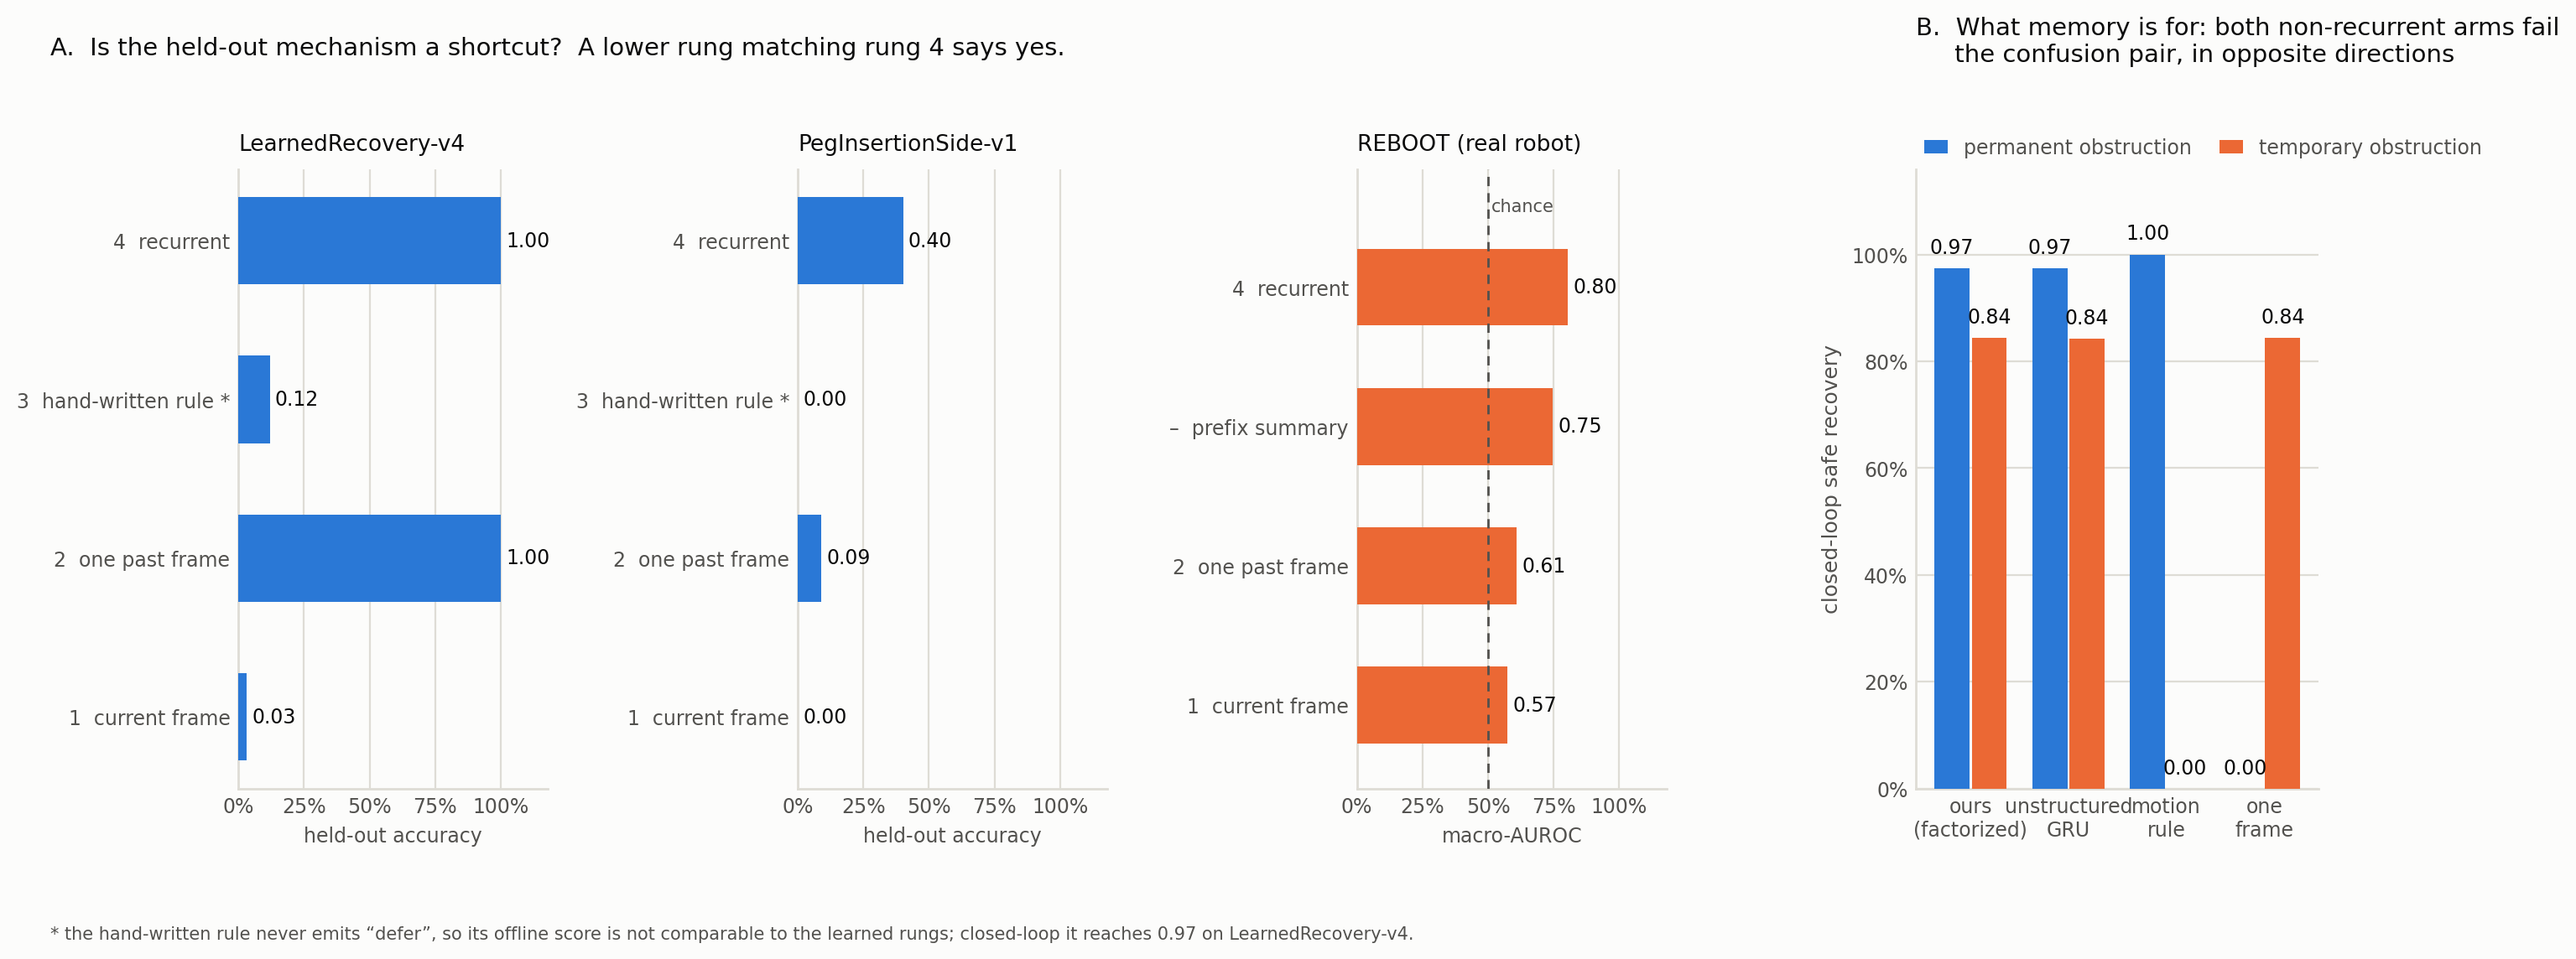
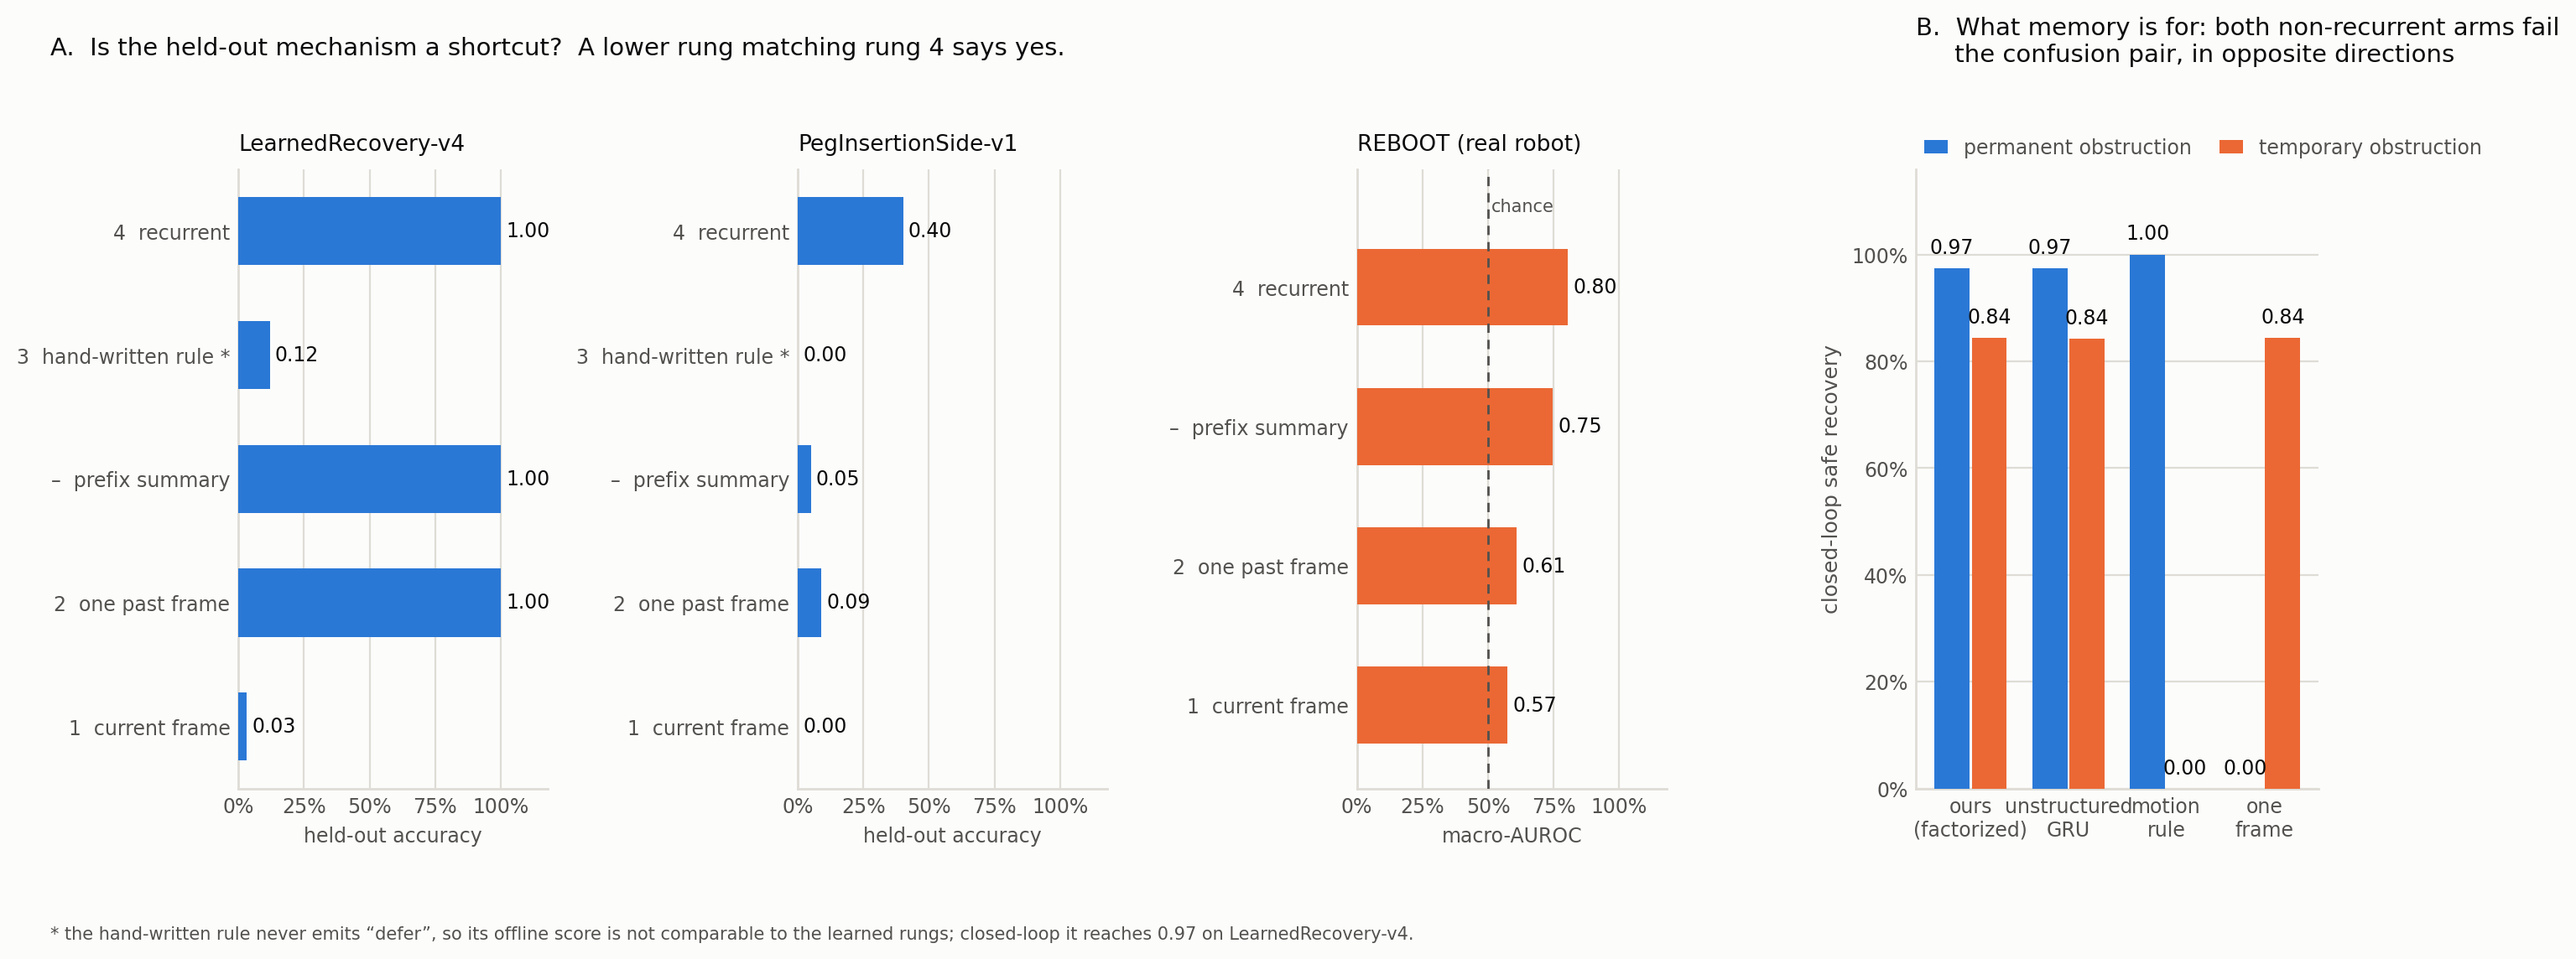
Score every benchmark against a matched rung set, revising two verdicts
The ladder had been scored with rungs that differed per benchmark: REBOOT
included an order-free summary control because its pipeline already provided
one, while the two simulated benchmarks did not. That omission changed
conclusions, so the earlier cross-benchmark summary was not sound.

With MomentSummaryRouter supplying the matched control on all three:

  LearnedRecovery-v4   best lower 1.0000 / 1.0000 = 1.000  shortcut
  PegInsertionSide-v1  best lower 0.0909 / 0.4015 = 0.226  none
  REBOOT               best lower 0.7466 / 0.8045 = 0.928  shortcut, marginal

REBOOT was previously reported as a clean negative on its endpoint-pair control
at 0.6080. Its order-free summary reaches 0.928 of the recurrent score, above
the 0.9 reporting line, so it is a marginal positive. The "one positive, two
negatives" summary is replaced by two positives and one negative.

The LearnedRecovery-v4 verdict is strengthened: two independent non-recurrent
controls both reach 1.0000, so the shortcut does not depend on how one control
was built. PegInsertion becomes more decisive as the negative, its order-free
summary reaching 0.0503, weaker than its two-frame control.

Three limitations are recorded and unresolved: the 0.9 line is a reporting
convention rather than a test, REBOOT sits close to it, and every REBOOT figure
rests on three optimizer seeds whose unstructured-GRU spread exceeds several of
the differences discussed.

diff --git a/README.md b/README.md
@@ -37,36 +37,46 @@ baseline.
 
 ## Results
 
-Applied to three benchmarks with a matched rung set:
+Applied to three benchmarks with an identical rung set:
 
-| Benchmark | Rung 2 | Rung 2b | Rung 4 | Shortcut |
-|---|---:|---:|---:|:---:|
-| `LearnedRecovery-v4` (this work) | 1.0000 | pending | 1.0000 | yes |
-| `PegInsertionSide-v1` | 0.0909 | pending | 0.4015 | pending |
-| REBOOT (external, real robot) | 0.6080 | 0.7466 | 0.8045 | contested |
+| Benchmark | r1 | r2 | r2b | r3 | r4 | best lower / r4 | Verdict |
+|---|---:|---:|---:|---:|---:|---:|:---:|
+| `LearnedRecovery-v4` (this work) | 0.0322 | 1.0000 | 1.0000 | 0.1195 | 1.0000 | 1.000 | shortcut |
+| `PegInsertionSide-v1` | 0.0000 | 0.0909 | 0.0503 | 0.0000 | 0.4015 | 0.226 | none |
+| REBOOT (external, real robot) | 0.5740 | 0.6080 | 0.7466 | n/a | 0.8045 | 0.928 | shortcut |
 
-Rung 2b is an order-free control that reads the whole prefix as a mean and
-standard deviation. It matters because a verdict computed against a weak
-non-recurrent control is not robust. On REBOOT the endpoint-pair control
-reaches 0.6080, which reports no shortcut, but the order-free summary reaches
-0.7466 — 0.928 of the recurrent score, above the 0.9 threshold the audit uses.
-REBOOT is therefore recorded as contested rather than as a clean negative, and
-the matched control is being trained for the other two benchmarks so all three
-are scored identically.
+Rung 2b is an order-free control: it reads every frame but has no sequence
+encoder and no access to frame order, taking the mean and standard deviation
+over the prefix. Including it changes two of the three verdicts relative to a
+ladder scored only against single- and two-frame controls, which is why the
+rung set must be identical across benchmarks.
+
+Two of the three benchmarks, including real-robot trajectories collected
+independently, have held-out mechanisms identifiable without the capability
+under test. `PegInsertionSide-v1` is the discriminating negative: its strongest
+non-recurrent control reaches 0.226 of the recurrent score, and its order-free
+summary is weaker still than its two-frame control.
+
+The threshold is a reporting convention rather than a test. REBOOT sits at
+0.928 against a 0.9 line, so it should be read as marginal; the ratios are
+given so the judgement does not rest on the cut. `LearnedRecovery-v4` at 1.000
+and PegInsertion at 0.226 are unambiguous either way.
 
 On REBOOT the recurrent factorized model also does not improve on the
 capacity-matched unstructured GRU: −0.0068, interval [−0.0249, 0.0119]. The
 unstructured GRU spans 0.7754 to 0.8506 across three optimizer seeds, a range
 wider than several of the differences discussed here. External evidence for the
-factorization is therefore absent rather than supportive.
+factorization is therefore absent rather than supportive, and three optimizer
+seeds is too few for these intervals to carry weight.
 
-The positive result on `LearnedRecovery-v4` has a specific cause. Current-
-centering was introduced to remove an earlier shortcut in which instantaneous
-geometry identified the mechanism, and it succeeded: rung 1 falls to 0.0322.
-Because centering expresses every frame as a signed displacement relative to
-the present, however, it introduced a rung-2 shortcut in which a single early
+The result on `LearnedRecovery-v4` has a specific cause. Current-centering was
+introduced to remove an earlier shortcut in which instantaneous geometry
+identified the mechanism, and it succeeded: rung 1 falls to 0.0322. Because
+centering expresses every frame as a signed displacement relative to the
+present, however, it introduced a shortcut one rung up, where a single early
 frame carries the full answer. Removing a leakage path at one rung opened
-another at the next.
+another at the next. Both non-recurrent controls above rung 1 reach 1.0000
+there, so this is not an artifact of one control's construction.
 
 The corresponding closed-loop result narrows what temporal evidence is required
 for. Mechanism identification does not require it: the held-out reverse

diff --git a/docs/19-iros-publishability-gate.md b/docs/19-iros-publishability-gate.md
@@ -197,32 +197,37 @@ this section is development evidence on an already-opened family.
 
 ## External validity of the audit itself
 
-The shortcut ladder has now been run on three benchmarks, and the external
-validity question it faced -- "you audited your own benchmarks" -- is answered.
-REBOOT supplies the negative control: 2,072 real-robot trajectories across nine
-leave-one-object-out families, collected by another group, where the rung-2
-endpoint-pair control reaches 0.6080 macro-AUROC against 0.8045 for the
-recurrent model (+0.1966 [0.1557, 0.2357]).
+The ladder has been run on three benchmarks with an identical rung set. The
+matched set revised an earlier conclusion recorded in this file and in the
+README, and the revision is kept rather than absorbed.
 
-| Benchmark | Rung 2 | Rung 4 | Shortcut |
-|---|---:|---:|---|
-| LearnedRecovery-v4 (ours) | 1.0000 | 1.0000 | yes |
-| PegInsertionSide-v1 | 0.0909 | 0.4015 | no |
-| REBOOT (external, real robot) | 0.6080 | 0.8045 | no |
+| Benchmark | Best non-recurrent rung | Recurrent | Ratio | Verdict |
+|---|---:|---:|---:|---|
+| LearnedRecovery-v4 (ours) | 1.0000 | 1.0000 | 1.000 | shortcut |
+| PegInsertionSide-v1 | 0.0909 | 0.4015 | 0.226 | none |
+| REBOOT (external, real robot) | 0.7466 | 0.8045 | 0.928 | shortcut, marginal |
 
-One positive and two negatives. The audit does not fire everywhere, so the
-positive on our own benchmark is a property of that benchmark rather than of
-the instrument. This is the evidence that converts a finding about one custom
-environment into a claim about how recovery evaluations are constructed, and it
-does not depend on the Peg closed-loop gate passing.
+Two of three benchmarks, including real-robot trajectories collected by another
+group, have held-out mechanisms identifiable without the capability under test.
+This is a broader claim than the earlier "we audited our own benchmark and
+found it flawed", and it does not depend on the Peg closed-loop gate passing.
 
-It also revises what the REBOOT numbers in this repository mean. A whole-prefix
-summary of mean and standard deviation reaches 0.7466 there with no recurrence,
-so most of that benchmark's signal is aggregate rather than dynamic, and the
-unresolved causal-versus-unstructured interval is the expected outcome rather
-than a disappointment.
+PegInsertion is the discriminating negative that keeps the audit from being
+vacuous: its strongest non-recurrent control reaches 0.226 of the recurrent
+score, and its order-free summary is weaker than its two-frame control. The
+separation between 0.226 and 0.928/1.000 is wide.
 
-The remaining gap to a top-tier claim is unchanged and is not about the audit:
-no closed-loop real-robot recovery, and on the benchmark without a shortcut the
-factorized router reaches only 0.0199 on genuinely observed held-out prefixes.
-Those stay disclosed.
+Three limitations attach and are not resolved.
+
+The 0.9 line is a reporting convention set by this project, not a test with an
+error rate. REBOOT at 0.928 is close to it and should be quoted as a ratio.
+
+Every REBOOT figure rests on three optimizer seeds whose unstructured-GRU
+spread is 0.7754 to 0.8506, wider than several of the differences discussed.
+More seeds are needed before those intervals carry weight.
+
+On REBOOT the factorized model does not improve on the capacity-matched
+unstructured GRU (-0.0068, [-0.0249, 0.0119]). External evidence for the
+architecture is absent rather than supportive, and on PegInsertion, the one
+benchmark without a shortcut, it reaches 0.0199 on genuinely observed held-out
+prefixes. The method claim is weak; the audit claim is what this work supports.

diff --git a/docs/30-a-plus-recovery-protocol.md b/docs/30-a-plus-recovery-protocol.md
@@ -497,3 +497,46 @@ the originally published +0.0282 [-0.0140, +0.0938]. The published REBOOT
 figures were internally consistent; they were not robust to adding an arm.
 
 Artifact: `results/a_plus_audit/reboot_ladder_v4_aggregate.json`.
+
+### Matched rung set, and the verdict revision it forced
+
+The ladder was first scored with a rung set that differed per benchmark: REBOOT
+had an order-free summary control because its pipeline already provided one,
+while the two simulated benchmarks did not. A ladder whose rungs differ per
+benchmark cannot support a cross-benchmark claim, and in this case the omission
+changed conclusions.
+
+`MomentSummaryRouter` supplies the matched control. It reads every frame but has
+no sequence encoder and no access to frame order, taking the mean and standard
+deviation over the valid prefix. It is the strongest order-free control.
+
+| Benchmark | r1 | r2 | r2b | r3 | r4 | best lower / r4 | Verdict |
+|---|---:|---:|---:|---:|---:|---:|---|
+| LearnedRecovery-v4 | 0.0322 | 1.0000 | 1.0000 | 0.1195 | 1.0000 | 1.000 | shortcut |
+| PegInsertionSide-v1 | 0.0000 | 0.0909 | 0.0503 | 0.0000 | 0.4015 | 0.226 | none |
+| REBOOT | 0.5740 | 0.6080 | 0.7466 | n/a | 0.8045 | 0.928 | shortcut |
+
+Two revisions follow, and both are recorded rather than quietly absorbed.
+
+REBOOT was previously reported here and in the README as a clean negative on
+the strength of its endpoint-pair control at 0.6080. Its order-free summary
+reaches 0.7466, or 0.928 of the recurrent score, which is above the 0.9
+reporting line. REBOOT is a marginal positive, not a negative. The earlier
+"one positive, two negatives" summary was wrong; the matched result is two
+positives and one negative.
+
+The LearnedRecovery-v4 verdict is strengthened rather than weakened: two
+independent non-recurrent controls both reach 1.0000, so the shortcut is not an
+artifact of how one control was built.
+
+PegInsertion is the discriminating negative and becomes more decisive under the
+matched set. Its order-free summary reaches 0.0503, weaker than its two-frame
+control at 0.0909, and its strongest lower rung is 0.226 of the recurrent
+score.
+
+Two caveats attach to the interpretation. The 0.9 line is a reporting
+convention chosen by this project, not a test with an error rate, and REBOOT at
+0.928 sits close enough to it that the ratio should be quoted rather than the
+verdict. And every REBOOT figure rests on three optimizer seeds whose
+unstructured-GRU spread is 0.7754 to 0.8506, wider than several differences
+under discussion; more seeds are required before those intervals carry weight.
